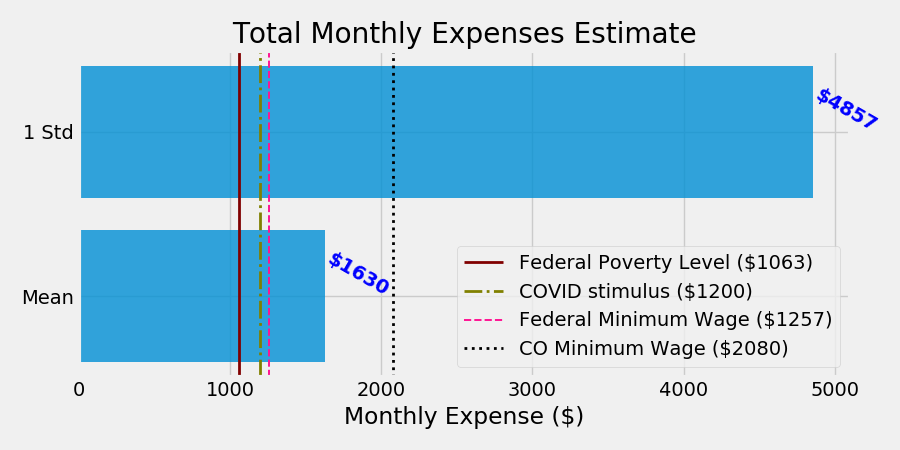
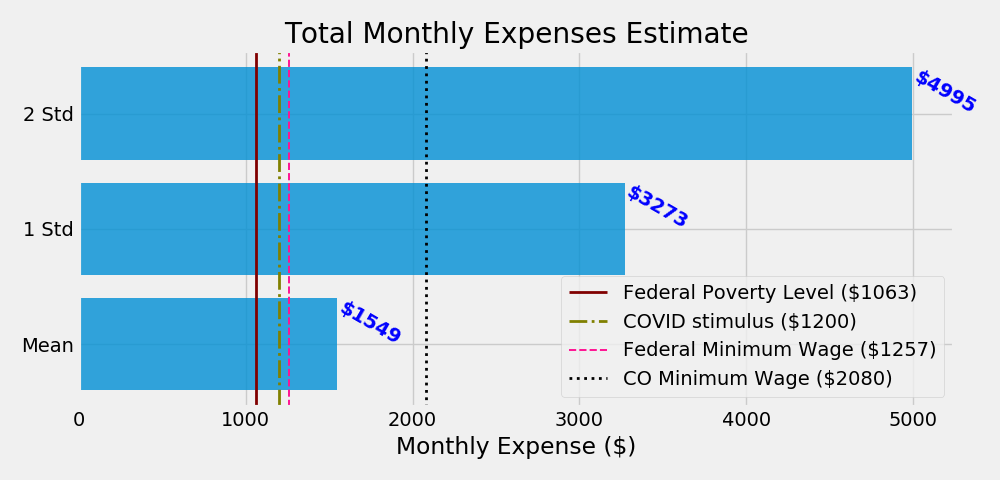
updated final plot to reflect 1BR housing mean

diff --git a/src/cap1_script.py b/src/cap1_script.py
@@ -190,12 +190,10 @@ if __name__ == "__main__":
     plt.axvline(np.mean(rent['1bed']), color='coral', linewidth=1, label='Mean ($769)')
     sns.distplot(rent['1bed'], axlabel="Monthly Rent ($)")
 
-    test = sns.distplot(rent['1bed'], axlabel="Monthly Rent ($)").get_lines()[1].get_data()
-    # sns.distplot(rent['1bed'], hist=False, fit=stats.norm)
+    # test = sns.distplot(rent['1bed'], axlabel="Monthly Rent ($)").get_lines()[1].get_data()
     plt.legend()
     plt.title('Average 1BR Rent (normalized)')
     plt.tight_layout()
-    # plt.set_xlabel('Average Rent (Dollars)')
     plt.savefig('images/rent_distplot.png')
     plt.close()
 
@@ -271,17 +269,17 @@ if __name__ == "__main__":
     
     # Final Plot
 
-    mu_lst = [food_mean/12, healthcare_mean/12, housing_mean/12, transportation_mean/12]
-    sigma_lst = [food_std/np.sqrt(n), healthcare_std/np.sqrt(n), housing_std/np.sqrt(n), transportation_std/np.sqrt(n)]
+    mu_lst = [food_mean/12, healthcare_mean/12, np.mean(rent['1bed']), transportation_mean/12]
+    sigma_lst = [food_std/np.sqrt(n), healthcare_std/np.sqrt(n), np.std(rent['1bed'])/np.sqrt(n), transportation_std/np.sqrt(n)]
     total_mean, total_std1, total_std2 = aggregate_mean_and_std(mu_lst, sigma_lst)
 
     
 
 
 
-    fig, ax = plt.subplots(figsize=(9,4.5))
-    labels = ['Mean', '1 Std']
-    data = [total_mean, total_std1]  
+    fig, ax = plt.subplots(figsize=(10,4.8))
+    labels = ['Mean', '1 Std', '2 Std']
+    data = [total_mean, total_std1, total_std2]  
     width = 1.8
     y = np.arange(len(data))
 

diff --git a/README.md b/README.md
@@ -41,7 +41,7 @@ The BLS data reports the average annual expenses of single men and women. Just o
 
 interesting to no that the most filled bucket is  1-1.5k.  I expect this difference can be partially explained by the definition of "1 Bedroom" in our rent catagory.  I suspect that this includes folks who are simply renting a badroom in a house, as opposed to a full, "1 Bedroom" house or apartment.
 
-![](images/housing_dist.png)
+
 
 
 ## Other Core Expenses
